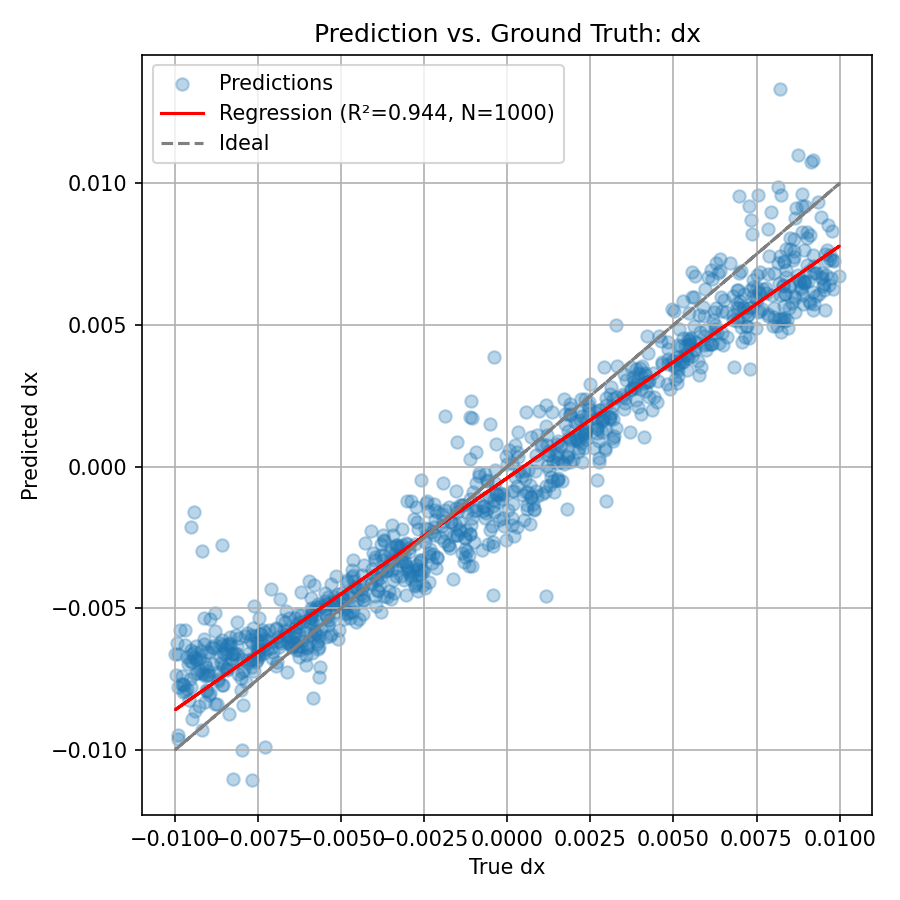
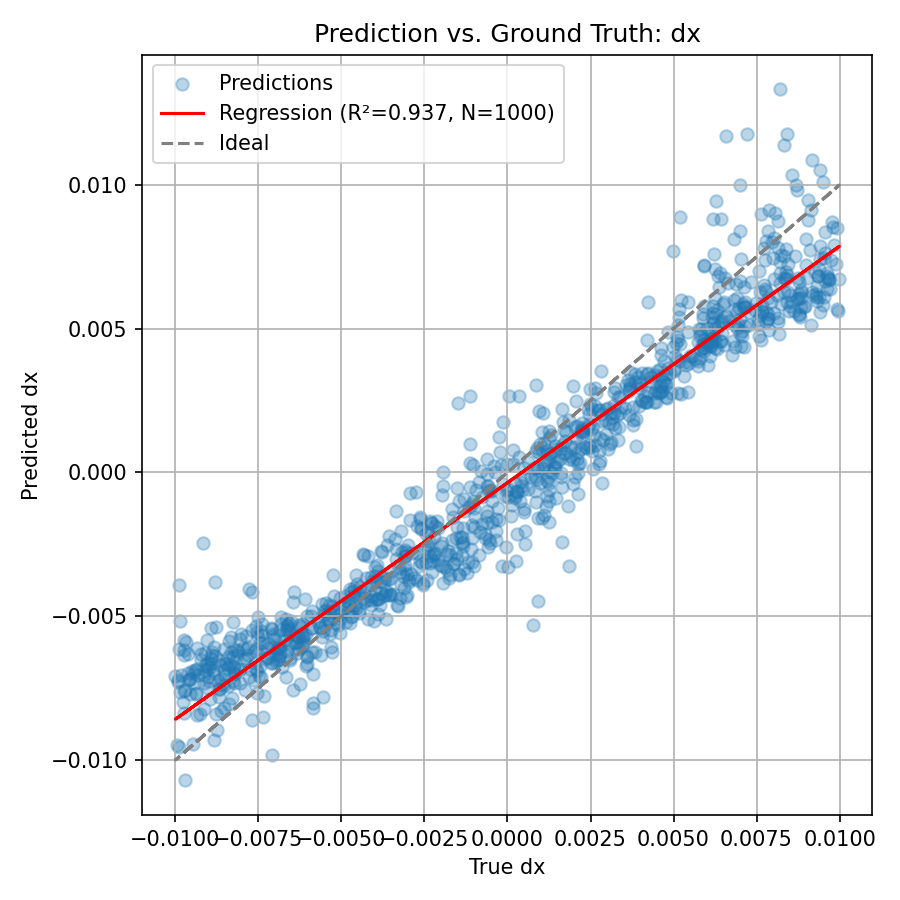
work in progress

diff --git a/src/data/generate_flow_xt_data.py b/src/data/generate_flow_xt_data.py
@@ -1,28 +1,28 @@
-# -*- coding: utf-8 -*-
-
-import torch
+import os
 import numpy as np
 import matplotlib.pyplot as plt
-import os
-
+import torch
 
 def generate_flow_xt_dataset(
     output_root: str,
-    n_samples: int = 100_000,
+    n_samples: int = 100_000, # 100_000
     dx_range=(-0.01, 0.01),
     dz_range=(-0.01, 0.01),
-    rot_deg_range=(0, 0), #(-0.5, 0.5)
+    rot_deg_range=(0.5, 0.5),
     split=(0.8, 0.1, 0.1),
     seed: int = None,
     stim_wid_px: int = 1028,
     n_time_steps: int = 128,
     fov_deg: float = 90,
-    near_clip: float = 0.05
+    near_clip: float = 0.05,
+    superimpose: bool = False,
+    n_world_dots: int = 1000
 ) -> str:
     """
     Generates a dataset of XT flow tensors and saves them into train/validate/test subfolders.
     Folder name encodes parameter ranges using micro-units (udx, udz). Filenames include dx, dz
-    in micro-units and rot in float degrees. Returns the path to the root output folder.
+    in micro-units and rot in float degrees. If `superimpose` is True, generates separate
+    rotational and translational flows and combines them by summing, then binarizing the result.
     """
 
     def validate_range(name, r):
@@ -52,11 +52,12 @@ def generate_flow_xt_dataset(
     rot_max = round(rot_deg_range[1], 3)
 
     folder_name = f"udx={udx_min},{udx_max}_udz={udz_min},{udz_max}_rot={rot_min},{rot_max}"
+    if superimpose:
+        folder_name += "_superimposed"
     output_folder = os.path.join(output_root, folder_name)
 
     # Create subfolders
-    subfolders = ["train", "validate", "test"]
-    for sub in subfolders:
+    for sub in ["train", "validate", "test"]:
         os.makedirs(os.path.join(output_folder, sub), exist_ok=True)
 
     rng = np.random.default_rng(seed)
@@ -81,26 +82,49 @@ def generate_flow_xt_dataset(
         dz = rng.uniform(*dz_range)
         rot_deg = rng.uniform(*rot_deg_range)
 
-        xt_tensor = generate_flow_xt_stim(
-            cam_trans_xz=[dx, dz],
-            cam_rot_deg=rot_deg,
-            stim_wid_px=stim_wid_px,
-            n_time_steps=n_time_steps,
-            fov_deg=fov_deg,
-            near_clip=near_clip,
-            filename=''
-        )
+        # Generate one or two tensors depending on `superimpose`
+        xt_tensor_list = []
 
-        xt_tensor = xt_tensor.unsqueeze(0)  # [1, T, X]
+        for layer in range(2 if superimpose else 1):
+            n_layer_dots = n_world_dots
+            cam_trans = [dx, dz]
+            cam_rot = rot_deg
+            if superimpose:
+                n_layer_dots = n_layer_dots//2
+                if layer == 0:
+                    cam_trans = [0, 0]
+                else:
+                    cam_rot = 0
+
+
+            xt = generate_flow_xt_stim(
+                cam_trans_xz=cam_trans,
+                cam_rot_deg=cam_rot,
+                stim_wid_px=stim_wid_px,
+                n_time_steps=n_time_steps,
+                fov_deg=fov_deg,
+                n_world_dots = n_layer_dots,
+                near_clip=near_clip,
+                filename=''
+            )
+            xt_tensor_list.append(xt)
+
+        # Sum tensors and binarize
+        xt_tensor = sum(xt_tensor_list)
+        xt_tensor = (xt_tensor > 0).float()
+        xt_tensor = xt_tensor.unsqueeze(0)  # shape [1, T, X]
 
         udx = int(round(dx * 1e6))
         udz = int(round(dz * 1e6))
-        filename = f"flow_udx={udx}_udz={udz}_rot={rot_deg:.6f}_id={i}.pt"
+        filename = f"flow_udx={udx}_udz={udz}_rot={rot_deg:.6f}_id={i}"
+        if superimpose:
+            filename += "_superimposed"
+        filename += ".pt"
 
         split_name = split_map[i]
         filepath = os.path.join(output_folder, split_name, filename)
 
-        torch.save(xt_tensor, filepath)  # store as float32
+        torch.save(xt_tensor, filepath)
 
         if i % 100 == 0:
             print(f"Saved {split_name}/{filename}")
@@ -109,10 +133,11 @@ def generate_flow_xt_dataset(
     return output_folder
 
 
+
 def generate_flow_xt_stim(
     cam_trans_xz=[0, 1e-3],
     cam_rot_deg=0,
-    n_dots=1000,
+    n_world_dots=1000,
     stim_wid_px=1028,
     n_time_steps=128,
     fov_deg=90,
@@ -129,7 +154,7 @@ def generate_flow_xt_stim(
     tan_half_fov = np.tan(half_fov_rad)
     far_clip = np.cos(half_fov_rad)
 
-    dot_positions = np.random.uniform(-1, 1, size=(n_dots, 2))
+    dot_positions = np.random.uniform(-1, 1, size=(n_world_dots, 2))
     image = np.zeros((n_time_steps, stim_wid_px), dtype=np.float32)
 
     for t in range(n_time_steps):
@@ -178,4 +203,7 @@ def generate_flow_xt_stim(
 
 
 if __name__ == "__main__":
-    generate_flow_xt_dataset(output_root="F:/dw93net/data");  # ← update path as needed)
+    generate_flow_xt_dataset(
+        output_root="F:/dw93net/data", # ← update path as needed)
+        superimpose= True
+        );

diff --git a/src/data/utils.py b/src/data/utils.py
@@ -1,27 +1,38 @@
 import os
 
-def choose_or_create_subfolder(folder: str) -> str | None:
+def select_subfolder(folder: str, header_str: str = "\nChoose a subfolder:", allow_create_new: bool = False) -> str | None:
     """
-    Lists subfolders and lets user select one by number,
-    create a new one with 'N', or cancel with 'C'.
+    Lists subfolders and lets user select one by number.
+    Optionally allows creating a new one with 'N', or canceling with 'C'.
+
+    Args:
+        folder: Path to the parent folder.
+        header_str: Header to display before the subfolder list.
+        allow_create_new: If True, shows the 'N' option to create a new folder.
+
+    Returns:
+        Full path to the selected (or newly created) subfolder, or None if canceled.
     """
     while True:
         entries = os.listdir(folder)
         subfolders = sorted([f for f in entries if os.path.isdir(os.path.join(folder, f))])
 
-        print("\nChoose a subfolder:")
+        print(header_str)
         for i, sub in enumerate(subfolders, start=1):
             print(f"{i}: {sub}")
-        print("N: Create a new folder")
+        if allow_create_new:
+            print("N: Create a new folder")
         print("C: Cancel")
 
-        selection = input("Enter a number, 'N' for new folder, or 'C' to cancel: ").strip()
+        selection = input("Enter a number" +
+                          (", 'N' for new folder" if allow_create_new else "") +
+                          ", or 'C' to cancel: ").strip()
 
         if selection.lower() == 'c':
             print("Selection canceled.")
             return None
 
-        elif selection.lower() == 'n':
+        elif allow_create_new and selection.lower() == 'n':
             new_name = input("Enter name for new folder: ").strip()
             new_path = os.path.join(folder, new_name)
             if os.path.exists(new_path):
@@ -37,4 +48,5 @@ def choose_or_create_subfolder(folder: str) -> str | None:
             else:
                 print("Invalid number. Try again.")
         except ValueError:
-            print("Invalid input. Please enter a number, 'N', or 'C'.")
+            print("Invalid input. Please enter a number" +
+                  (", 'N'" if allow_create_new else "") + ", or 'C'.")

diff --git a/src/train/test_flow_xt_net.py b/src/train/test_flow_xt_net.py
@@ -6,23 +6,25 @@ from sklearn.linear_model import LinearRegression
 from sklearn.metrics import r2_score
 from models.flow_xt_net import FlowXTNet
 from data.load_flow_xt_data import FlowXtDataset
-from data.load_flow_xt_data import extract_range_from_foldername, subset_dataset
-from data.utils import choose_or_create_subfolder  # <-- new import
+from data.load_flow_xt_data import extract_ranges_from_foldername, subset_dataset
+from data.utils import select_subfolder
 import sys
 
-# --- Folder selection
+# --- Data selection
 data_root = "F:/dw93net/data"
-data_folder = choose_or_create_subfolder(data_root)
+data_folder = select_subfolder(data_root,header_str="\nSelect a data folder")
 if data_folder is None:
-    print("No folder selected. Exiting.")
+    print("No data folder selected. Exiting.")
     sys.exit()
-
 data_folder_name = os.path.basename(data_folder)
 
-# --- Load checkpoint
-checkpoints_dir = "F:/dw93net/checkpoints"
-model_name = "flow_xt_net"
-checkpoint_path = os.path.join(checkpoints_dir, model_name, data_folder_name, "_best.pt")
+# --- Model selection
+checkpoints_root = "F:/dw93net/checkpoints"
+checkpoints_folder = select_subfolder(checkpoints_root,header_str="\nSelect a checkpoints folder")
+if checkpoints_folder is None:
+    print("No checpoints folder selected. Exiting.")
+    sys.exit()
+checkpoint_path = os.path.join(checkpoints_root, checkpoints_folder, "_best.pt")
 
 checkpoint = torch.load(checkpoint_path, map_location="cpu")
 settings = checkpoint.get("settings", {})  # a plain dict
@@ -30,7 +32,7 @@ root_folder = settings.get("root_folder", data_folder)
 batch_size = settings.get("batch_size", 64)
 
 # --- Parameter ranges
-ranges = extract_range_from_foldername(os.path.basename(root_folder))
+ranges = extract_ranges_from_foldername(os.path.basename(root_folder))
 dx_range = ranges['dx']
 dz_range = ranges['dz']
 rot_range = ranges['rot_deg']

diff --git a/src/data/load_flow_xt_data.py b/src/data/load_flow_xt_data.py
@@ -40,12 +40,17 @@ class FlowXtDataset(Dataset):
 def parse_camera_motion_from_filename(filename: str) -> Dict[str, float]:
     """
     Extract dx, dz, and rot_deg (in physical units) from filename.
+    Also detect if the filename contains '_superimposed'.
 
     Example:
-        flow_udx=1234_udz=0_rot=-1.2345_id=42.pt
+        flow_udx=1234_udz=0_rot=-1.2345_superimposed_id=42.pt
 
     Returns:
-        Dictionary with keys: 'dx', 'dz', 'rot_deg' (values in meters and degrees)
+        Dictionary with keys:
+            - 'dx': translation in x (meters)
+            - 'dz': translation in z (meters)
+            - 'rot_deg': rotation in degrees
+            - 'superimposed': True if '_superimposed' is in the filename, else False
     """
     pattern = r"udx=(-?\d+)_udz=(-?\d+)_rot=(-?\d+(?:\.\d+)?)"
     match = re.search(pattern, filename)
@@ -56,11 +61,13 @@ def parse_camera_motion_from_filename(filename: str) -> Dict[str, float]:
     return {
         'dx': int(udx) / 1e6,
         'dz': int(udz) / 1e6,
-        'rot_deg': float(rot)
+        'rot_deg': float(rot),
+        'superimposed': '_superimposed' in filename
     }
 
 
-def extract_range_from_foldername(foldername: str) -> Dict[str, float]:
+
+def extract_ranges_from_foldername(foldername: str) -> Dict[str, float]:
     """
     Extract dx, dz, and rot ranges from folder name in physical units.
     Example foldername: 'udx=0,200000_udz=0,0_rot=-0.5,0.5'

diff --git a/src/train/train_flow_xt_net.py b/src/train/train_flow_xt_net.py
@@ -11,7 +11,6 @@ from data.load_flow_xt_data import FlowXtDataset, extract_range_from_foldername,
 class Settings:
     root_folder: str = "F:/dw93net/data/udx=-10000,10000_udz=-10000,10000_rot=0,0"
     checkpoints_dir: str = "F:/dw93net/checkpoints"
-    model_name: str = "flow_xt_net"
     batch_size: int = 12
     num_epochs: int = 1_000_000
     lr: float = 1e-3
@@ -34,7 +33,7 @@ dz_range = ranges['dz']
 rot_range = ranges['rot_deg']
 
 # --- Checkpoint paths
-checkpoint_subdir = os.path.join(cfg.checkpoints_dir, cfg.model_name, data_folder_name)
+checkpoint_subdir = os.path.join(cfg.checkpoints_dir, data_folder_name)
 os.makedirs(checkpoint_subdir, exist_ok=True)
 latest_ckpt_path = os.path.join(checkpoint_subdir, "_latest.pt")
 best_ckpt_path = os.path.join(checkpoint_subdir, "_best.pt")
